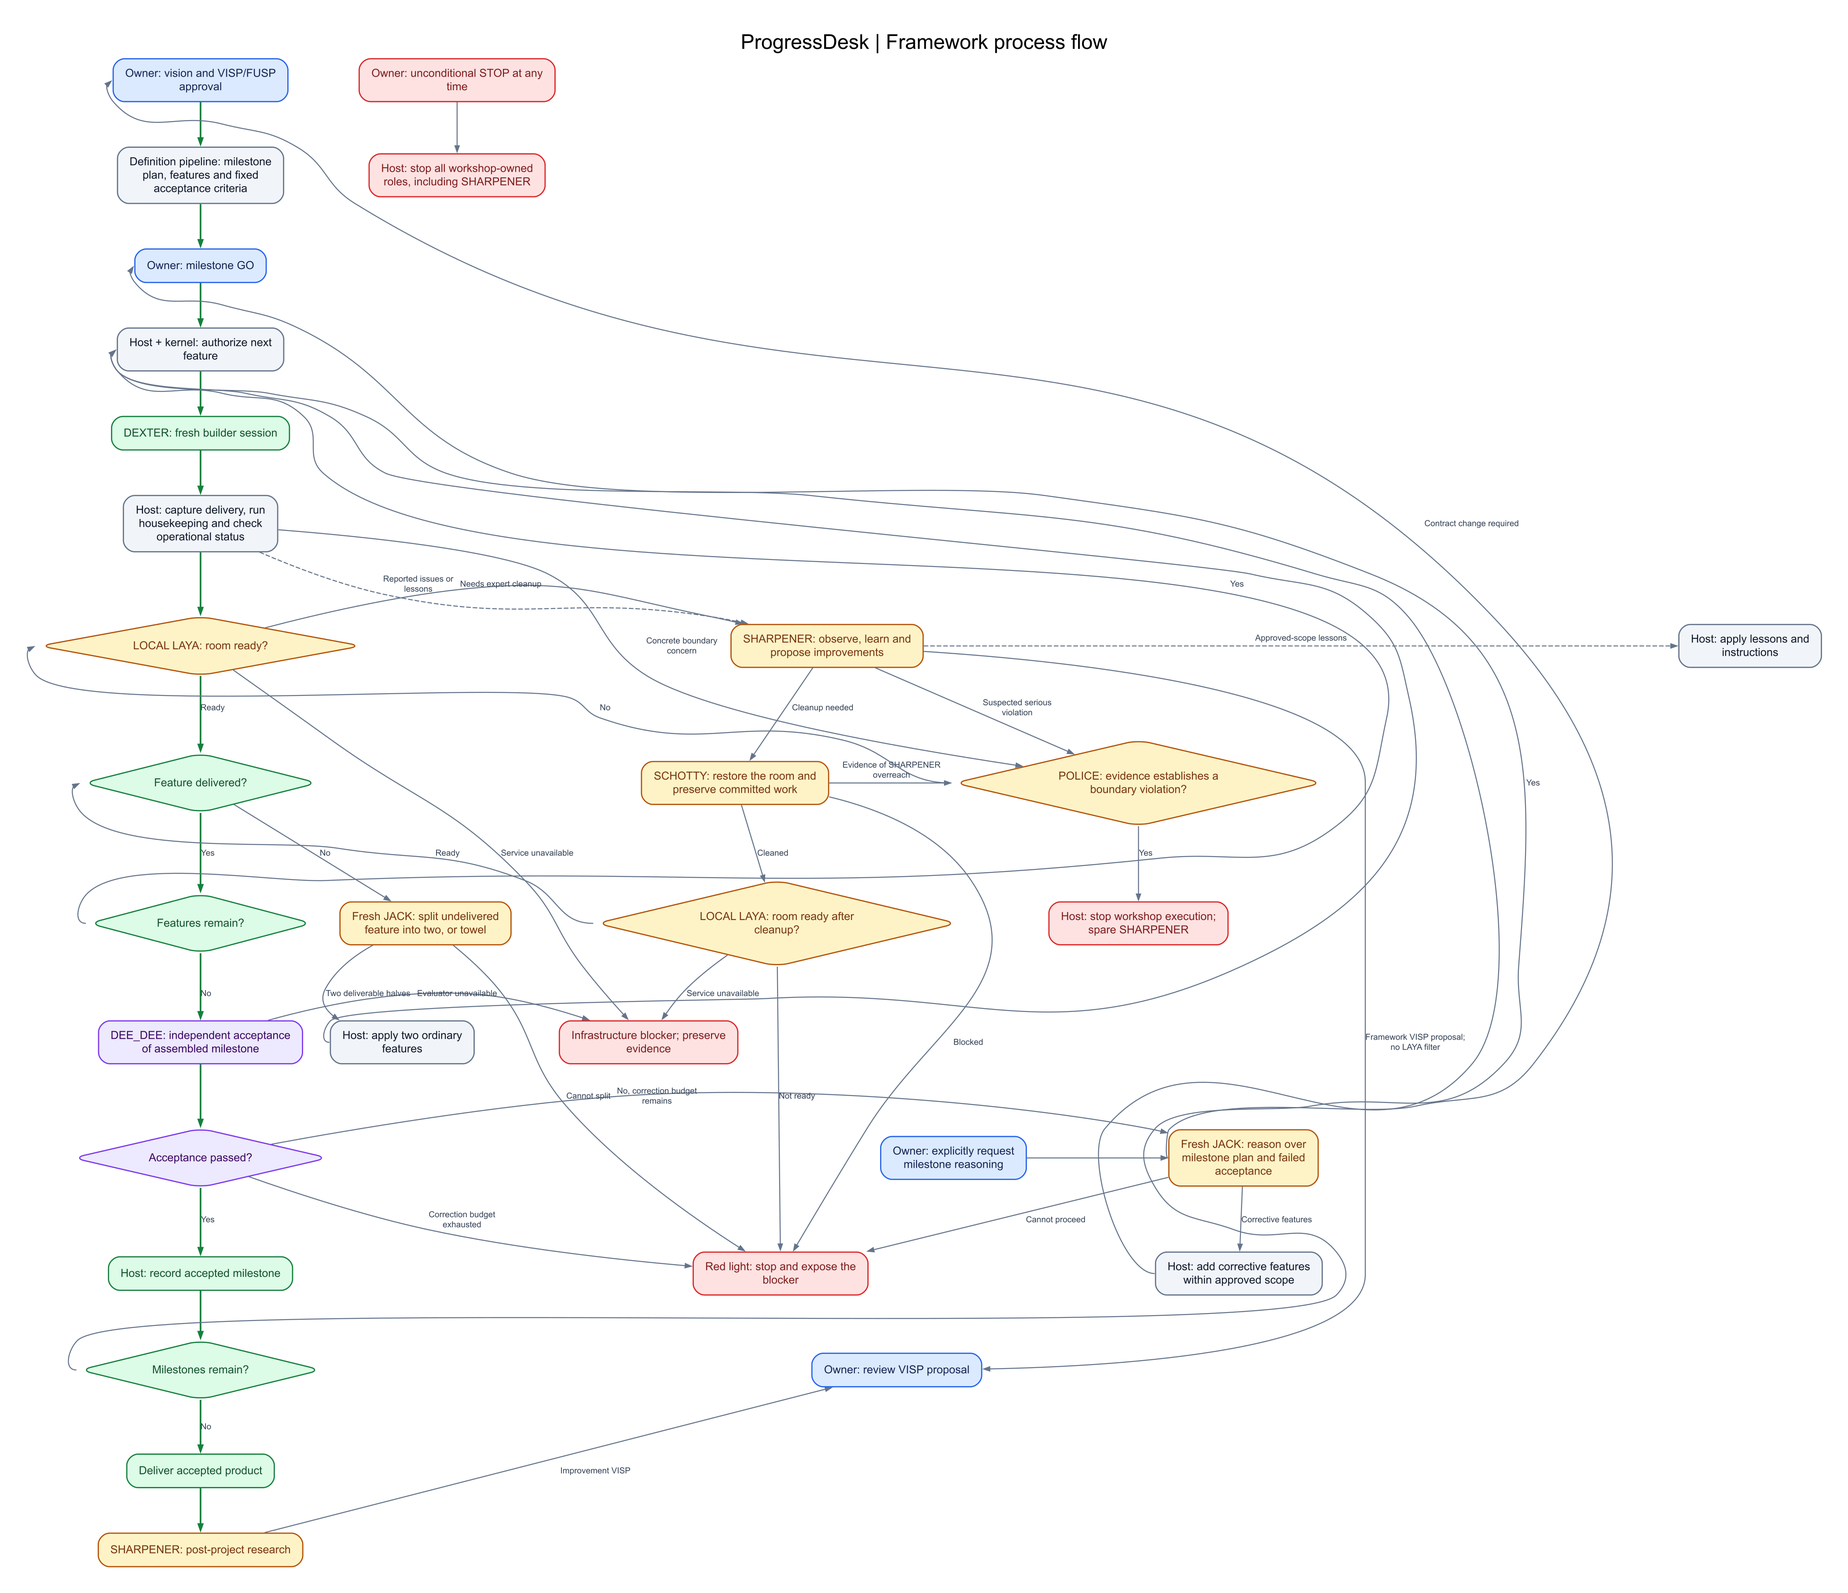
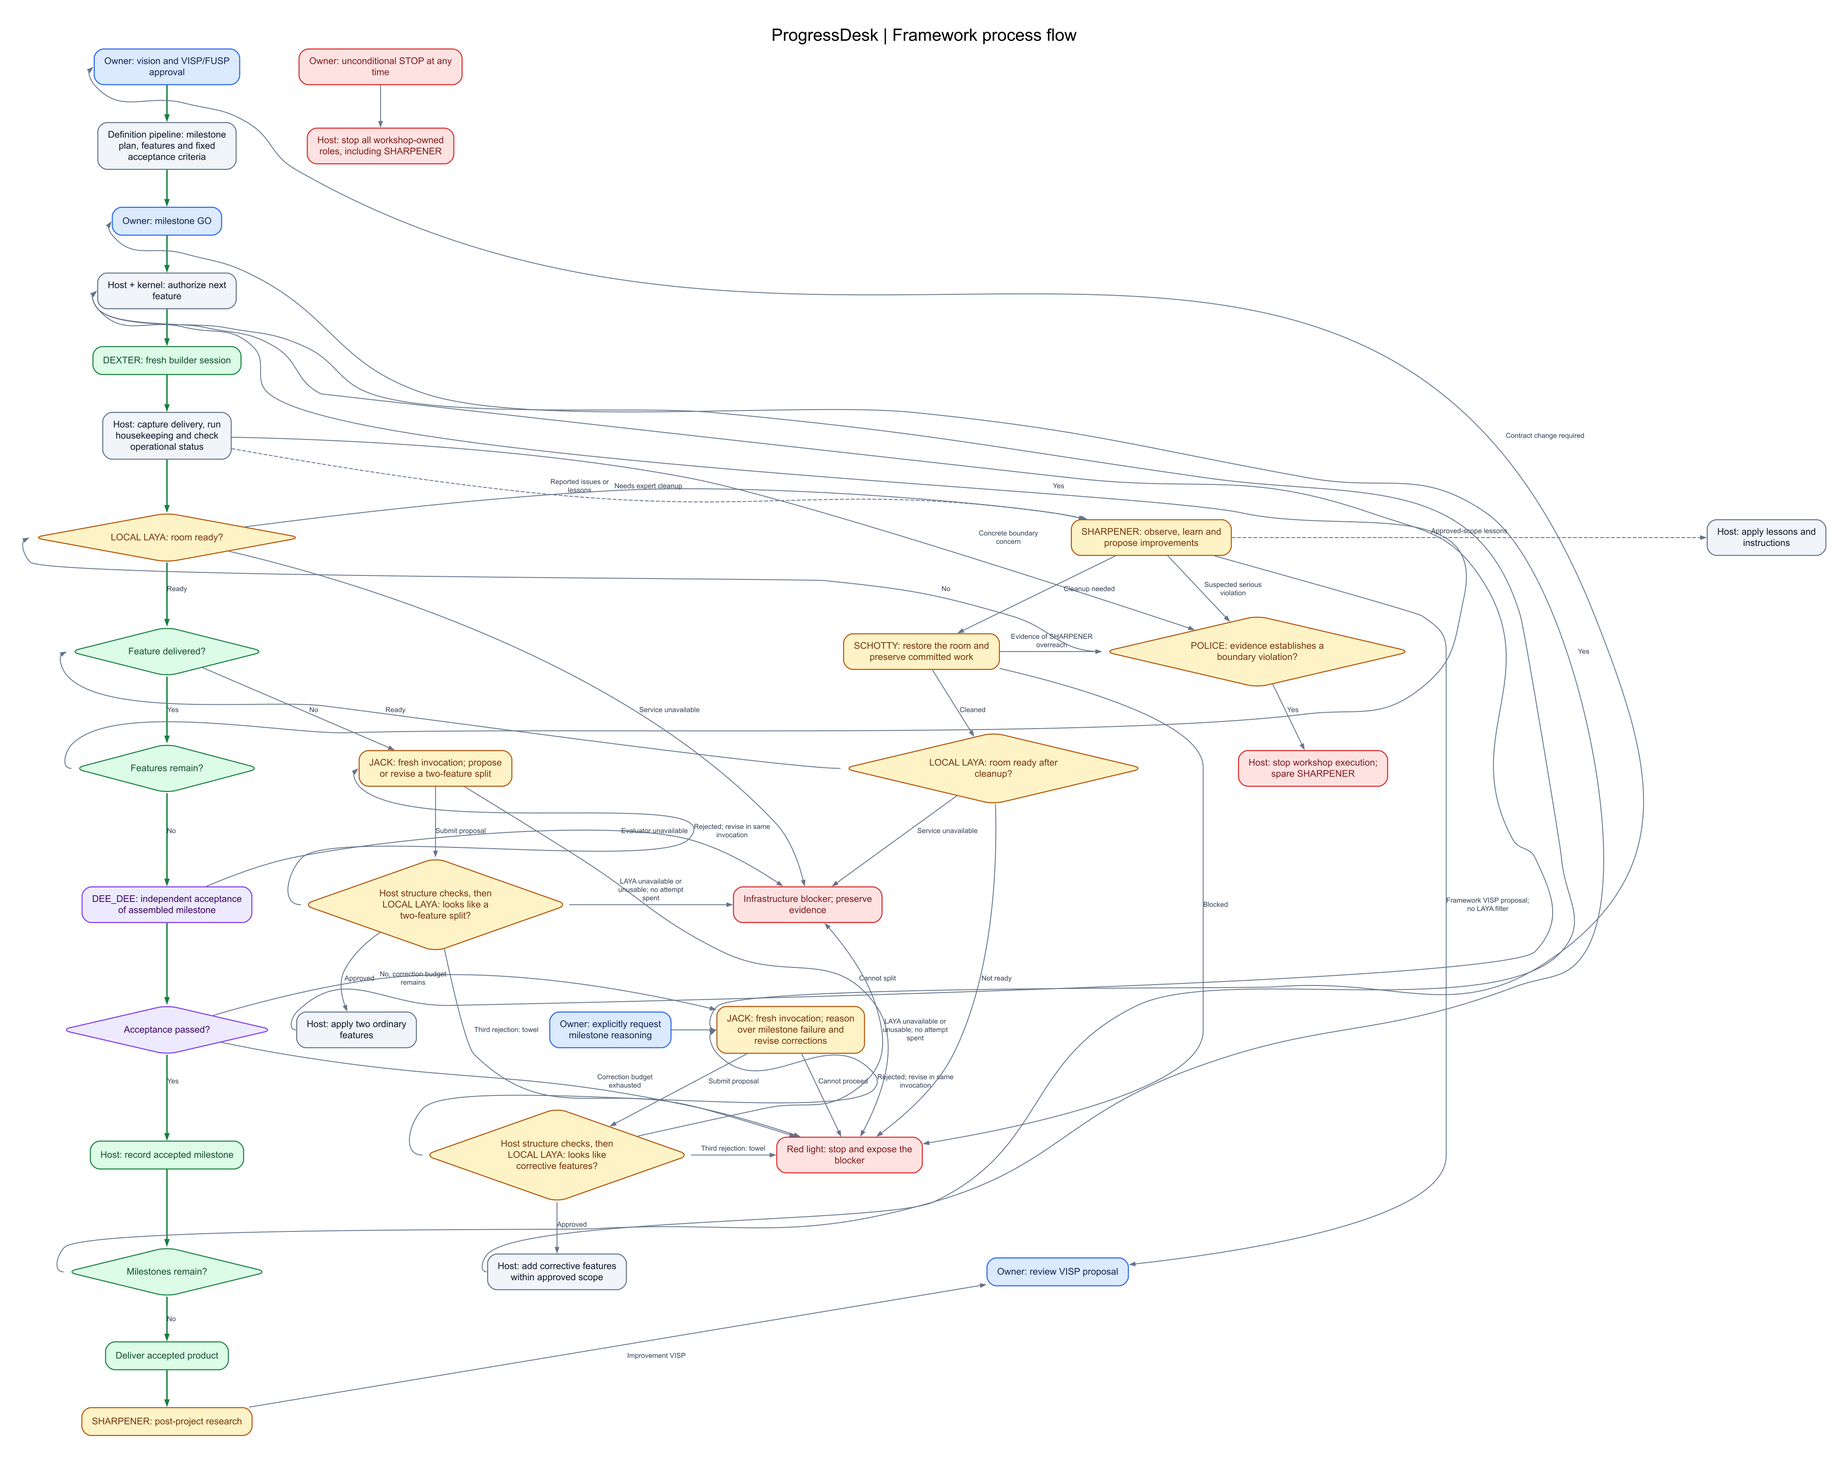
Plan self-contained local LAYA checks for JACK submissions

diff --git a/docs/IMPLEMENTATION_REPLY_WORKSHOP6_2026-10-20.md b/docs/IMPLEMENTATION_REPLY_WORKSHOP6_2026-10-20.md
@@ -4,7 +4,7 @@
 
 **Purpose:** Combine both investigations and the owner's subsequent decisions into instructions for the implementing agent.
 
-**Status:** Approved for implementation within the recorded scope. The owner has resolved the final audit's qualitative-QA and corrective-planning decisions in section 2C. Proceed with the approved work while keeping the concrete unknowns in section 7 visible. This document is a bounded implementation handoff, not evidence of a fully commissioned or completed framework.
+**Status:** Approved for implementation within the recorded scope. The owner's qualitative-QA, corrective-planning, fresh-JACK and submission-check decisions are recorded in sections 2C–2E. Proceed with the approved work while keeping the concrete unknowns in section 7 visible. This document is a bounded implementation handoff, not evidence of a fully commissioned or completed framework.
 
 Read with [the research handoff](RESEARCH_HANDOFF_DOGFOOD_RECOVERY_2026-10-20.md) and [your forensic reply](REPLY_RESEARCH_HANDOFF_DOGFOOD_RECOVERY_2026-10-20.md). This reply supersedes their conflicting recommendations. The older implementation plan is not ready to execute unchanged.
 
@@ -110,14 +110,15 @@ The normal correction path is:
 failed milestone acceptance
   -> fresh JACK instance reviews the milestone plan and acceptance findings
   -> proposes corrective features within the approved milestone scope
-  -> host records them in the ordinary feature plan
+  -> host submission operation checks structure, then local LAYA checks plausibility
+  -> host atomically records the approved proposal in the ordinary feature plan
   -> builders execute them through the usual build/status path
   -> assemble the changed product and rerun the declared milestone gate
 ```
 
 JACK owns this bounded corrective-planning responsibility as well as feature splitting, through separate explicit operations and request/result formats. Give the fresh corrective-planning instance the milestone plan, original acceptance obligations, failed candidate/evaluator identities, recorded findings, and relevant delivery history or frozen source needed to diagnose the failure. It must be able to consider earlier features; do not assume the last builder caused the problem. Reuse the ordinary host-managed planning/feature path to apply its proposal.
 
-Its normal output is executable corrective feature contracts: outcomes, scope, interfaces and relevant acceptance obligations, with the existing tool/authority metadata preserved. Host code applies the resulting plan changes. The planner cannot silently weaken the milestone, rewrite past acceptance evidence, grant itself capabilities, or repair the product outside the normal builder path. JACK continues to handle non-delivery of ordinary or corrective features.
+Its normal output is executable corrective feature contracts: outcomes, scope, interfaces and relevant acceptance obligations, with the existing tool/authority metadata preserved. Host code applies the resulting plan changes only through the submission operation in section 2E. The planner cannot silently weaken the milestone, rewrite past acceptance evidence, grant itself capabilities, or repair the product outside the normal builder path. JACK continues to handle non-delivery of ordinary or corrective features.
 
 Expose the same reasoning/planning operation for direct owner invocation and steering. The owner must be able to demand reasoning-model involvement; it is not restricted to an automatic trigger. An explicit steering request does not introduce routine intermediate product testing. Use a model capable of the required reasoning within declared free capacity; never substitute LAYA's compact classification for this planning work or silently escalate to paid capacity.
 
@@ -132,10 +133,37 @@ The owner rejected project-long JACK conversations. BUILD FOR SUCCESS means both
 - **Feature split:** start a fresh JACK session for each split decision. Supply the failed feature's complete contract, non-delivery evidence and necessary interfaces/milestone constraints. Return two executable halves or a towel. Do not load earlier JACK conversations.
 - **Milestone correction:** start a separate fresh JACK session for each replanning invocation, including direct owner invocations. Supply the broader milestone and failure context described in section 2C. Return corrective feature proposals through the host; this operation is not restricted to two halves.
 - Build each context from current authoritative project records. A fresh session can still receive the relevant earlier feature and acceptance evidence; it does not depend on memory from a previous JACK.
-- Preserve existing resumption for a transport interruption **within the same invocation**. That continuation does not authorize reusing a completed invocation's session for another split or milestone replanning call.
+- Preserve existing resumption for a transport interruption **within the same invocation**. Revisions after a rejected submission also remain within that invocation and its submission allowance. Neither continuation authorizes reusing a completed invocation's session for another split or milestone replanning call.
 - Do not implement project-long JACK processes, a reusable JACK conversation registry, or context-saving infrastructure for these exception paths. Update JACK's existing `SPLIT only` mandate explicitly to cover its two operations and their distinct context needs.
 
 The earlier recommendation to introduce persistent project conversations for JACK and SHARPENER is withdrawn. This decision introduces no new session-lifetime policy for SHARPENER; preserve its existing approved invocation behavior unless the owner separately changes it. SHARPENER remains the framework-improvement role, not the milestone repair planner.
+
+### E. JACK submits through a self-contained local LAYA check
+
+The owner approved a narrow plausibility check inside JACK's host submission operations. **Every LAYA call is self-contained:** one compact proposal packet and its question, with no JACK conversation, prior queries, remembered answers or examples required. LAYA checks whether the proposal looks like the requested kind of feature work. It does not certify substance, completeness, successful implementation or acceptance.
+
+Expose two explicit operations through the existing gateway/tool mechanism. JACK submits structured proposals to them; it cannot apply a proposal by editing the authoritative feature file or other project documents directly.
+
+| Operation | Compact packet sent to genuine local LAYA | Question |
+|---|---|---|
+| Feature split | Incoming feature's concise outcome/scope, followed by the two proposed features' concise outcomes/scopes | Does this describe two distinct, actionable parts of the incoming work? |
+| Milestone corrective planning | Concise milestone goal and recorded failure/problem, followed by the proposed corrective features' concise outcomes/scopes | Does this describe a list of actionable corrective features for the stated milestone problem? |
+
+The split operation requires **exactly two** ordered feature contracts. Corrective planning accepts **one or more**; do not reuse an exact-two rule for it. Fresh JACK receives the full context defined in sections 2C/2D. LAYA receives only the compact packet for the current operation, not the full plan, code, evaluator transcript or JACK reasoning.
+
+Implement each submission in this order:
+
+1. **Host validation:** check the request schema, required contract fields, feature count, caller authority, project/milestone/feature references and current plan revision. Preserve the approved acceptance references and protected tool/authority metadata through existing host rules. LAYA cannot grant permissions or authorize a contract change.
+2. **LAYA decision:** construct readable, labelled input from the current authoritative incoming work/problem and the submitted proposal. Use the real local decision-service protocol in section 5, step 2. Keep question versions and probability interpretation explicit; validate the response rather than guessing an answer. Respect the actual service input limit. If the necessary packet cannot fit, report that capability limitation rather than silently omitting part of the proposal or declaring JACK's work invalid.
+3. **Host application:** only after structural validation and a positive LAYA decision, atomically replace the failed feature with its two halves, or add the corrective features to the ordinary milestone plan. Bind the decision to the exact proposal and plan revision being applied; a changed/stale proposal must not inherit approval. Rejection leaves the authoritative plan unchanged. Use the existing event/artifact truth to record the proposal, question/decision, attempt and applied result; do not create another authority store.
+
+Return successful application through the normal success result. A structural rejection or negative LAYA decision returns **CLI exit 1**, or the equivalent typed tool/API rejection, so JACK can revise the proposal. Return real schema/reference errors where available. If LAYA returns only a probability, report that result and the narrow question; do not invent a natural-language rationale or fabricate semantic feedback.
+
+Allow **three submissions total per JACK invocation**, including the first submission. Each structural or LAYA rejection consumes one; after the third rejection, JACK towels and the host records the terminal blocker. Revisions use the same bounded JACK invocation. Do not automatically start a fresh invocation to evade its allowance. This limit applies to submitting that split/correction proposal, not to the milestone's separate product-correction budget or an invented global limit on recursive splitting.
+
+Service unavailability, an unusable response or a genuine input-capability blocker is an **infrastructure outcome**, not a negative plausibility verdict and not a consumed submission or product correction. Preserve the pending proposal/evidence and expose the blocker; do not poll indefinitely, bypass LAYA or let builders proceed with an unapplied proposal. Transport recovery within the same invocation must not double-apply an already recorded result.
+
+This adds no routine feature-quality gate, VISP filter or calibration campaign. The genuine service and these narrow question forms still need to work in the recovered environment; their live capability is not established by this plan. Every actual decision must be possible from its own packet alone.
 
 ## 3. Combined findings to carry into implementation
 
@@ -200,7 +228,7 @@ Bring across OpenCode and report handling together with their runtime dependenci
 
 Verify specialist transitions through their concrete operations:
 
-- For a split, fresh JACK receives the complete feature contract and failure context; the host applies exactly two ordered feature contracts or records a towel. Milestone correction uses JACK's separate fresh-session planning operation from sections 2C/2D.
+- For a split, fresh JACK receives the complete feature contract and failure context. Its submission passes host structural checks and the self-contained local LAYA check before the host applies exactly two ordered feature contracts. Connect rejection/revision, the three-submission allowance and towel as specified in section 2E. Milestone correction uses the separate fresh-session planning operation and its own submission question from sections 2C–2E.
 - Mechanical housekeeping performs mechanical actions; genuine LAYA assesses the room. Unresolved cleanup reaches SCHOTTY with sufficient tools and the actual workspace/evidence paths.
 - SHARPENER observes before cleanup and can teach or propose through host operations. It does not build product features or authorize framework implementation.
 - SCHOTTY cleans and preserves committed output. POLICE receives typed concrete violation evidence, decides serious boundary violations and invokes the connected stop mechanism; do not port an unbounded raw-transcript investigation into its mandate. SHARPENER is spared on the POLICE workshop-stop path. The owner's unconditional stop remains separate in authority and can stop SHARPENER too.
@@ -232,7 +260,7 @@ Use one existing milestone phase service with coherent orchestration around it. 
 
 Through the public CLI/API, declare the project, milestone, accepted contract and GO; prepare its editable feature list and seed. Obtain a real host-committed feature from 6's actual broker/OpenCode path, then proceed toward the milestone.
 
-After the milestone's required deliveries, run its declared acceptance against the frozen assembly. Product failure invokes the reasoning-model planning step in section 2C. Apply its corrective features to the normal feature plan and dispatch them through the usual builders, with operational status checks between features and product acceptance at the milestone boundary. Assemble the changed candidate and rerun the same declared criteria/gate. Implement the owner's direct invocation of this planning operation through the public gateway too. Preserve the milestone's explicit correction budget and honest terminal non-success when exhausted. Do not silently introduce unlimited repair or arbitrary new limits on recursive JACK splitting. A proposal outside approved scope follows the existing human decision boundary.
+After the milestone's required deliveries, run its declared acceptance against the frozen assembly. Product failure invokes the reasoning-model planning step in section 2C. Apply its corrective features only through the host submission checks in section 2E, then dispatch them through the usual builders, with operational status checks between features and product acceptance at the milestone boundary. Assemble the changed candidate and rerun the same declared criteria/gate. Implement the owner's direct invocation of this planning operation through the public gateway too. Preserve the milestone's explicit correction budget and honest terminal non-success when exhausted. Do not silently introduce unlimited repair or arbitrary new limits on recursive JACK splitting. A proposal outside approved scope follows the existing human decision boundary.
 
 Missing tooling, a runner/setup crash or an unavailable evaluator is an infrastructure outcome, not a negative product verdict and not a consumed product correction. Conversely, a declared evaluator observing the candidate crash or violate a required behavior may legitimately report product failure. Do not classify every nonzero exit/exception as either product failure or infrastructure without this distinction. If the acceptance standard itself is wrong or insufficient, return the criterion/policy change to its external authority; never tailor it silently to obtain a pass or recycle old evidence after a material change.
 
@@ -260,10 +288,10 @@ The next report should identify the chosen composition and working location, the
 
 | Item | Current knowledge and next evidence | Policy boundary |
 |---|---|---|
-| Genuine LAYA installation | Client protocol and historical measurement claims exist; exact serving environment, model identity/weights, startup and supported context limits remain unestablished | Recover the actual tool; no arbitrary replacement or simulated service |
+| Genuine LAYA installation and question capability | Client protocol and historical measurement claims exist; exact serving environment, model identity/weights, startup, supported context limits and suitability for the two new self-contained proposal questions remain unestablished | Recover the actual tool; no arbitrary replacement, simulated service or hidden dependence on conversation history; expose a concrete capability blocker |
 | Coherent source composition | Donors are identified; their combined imports, event schemas, policies and role calls have not been demonstrated as workshop 6 | Resolve in code; preserve required responsibilities; report a real scope change |
 | Acceptance coverage | The old standard is demonstrably weak; a complete executable mapping of accepted ProgressDesk outcomes has not yet been approved/commissioned | Prepare the mapping from existing scope; expose unclear criteria instead of inventing a private definition of success |
-| Qualitative QA and corrective planning | Mandates are approved in sections 2C/2D; their connected implementation and live evidence remain to be produced | Preserve the QA/JACK/builder separation, fresh JACK sessions, unchanged acceptance obligations, and direct owner access to reasoning |
+| Qualitative QA and corrective planning | Mandates and JACK submission checks are approved in sections 2C–2E; their connected implementation and live evidence remain to be produced | Preserve the QA/JACK/builder separation, fresh JACK sessions, self-contained LAYA checks, unchanged acceptance obligations, and direct owner access to reasoning |
 | Runtime identity and capability | Requested account/model are known; no assumption about a new workshop's actual logon, free capacity or hard confinement is justified | Verify actual execution; no paid fallback or false isolation claim |
 | Live completion | Narrow target delivery evidence exists; a full 6-built, independently accepted and promoted product does not | Distinguish commissioning, acceptance and finalization; report unresolved evidence plainly |
 
